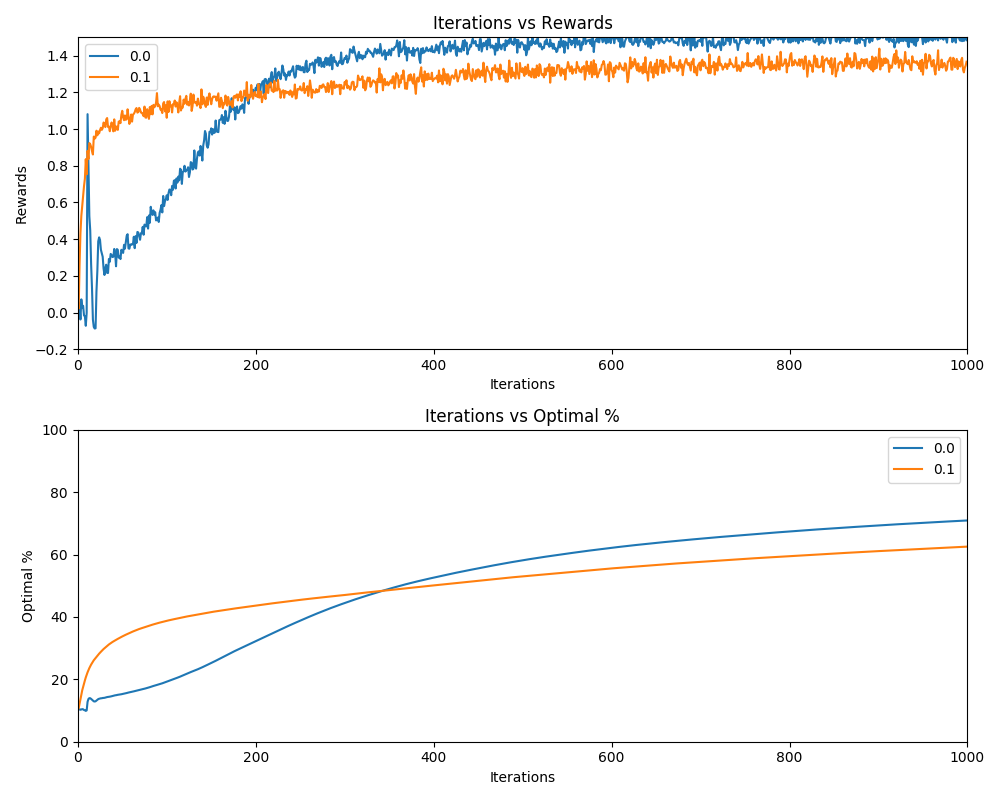
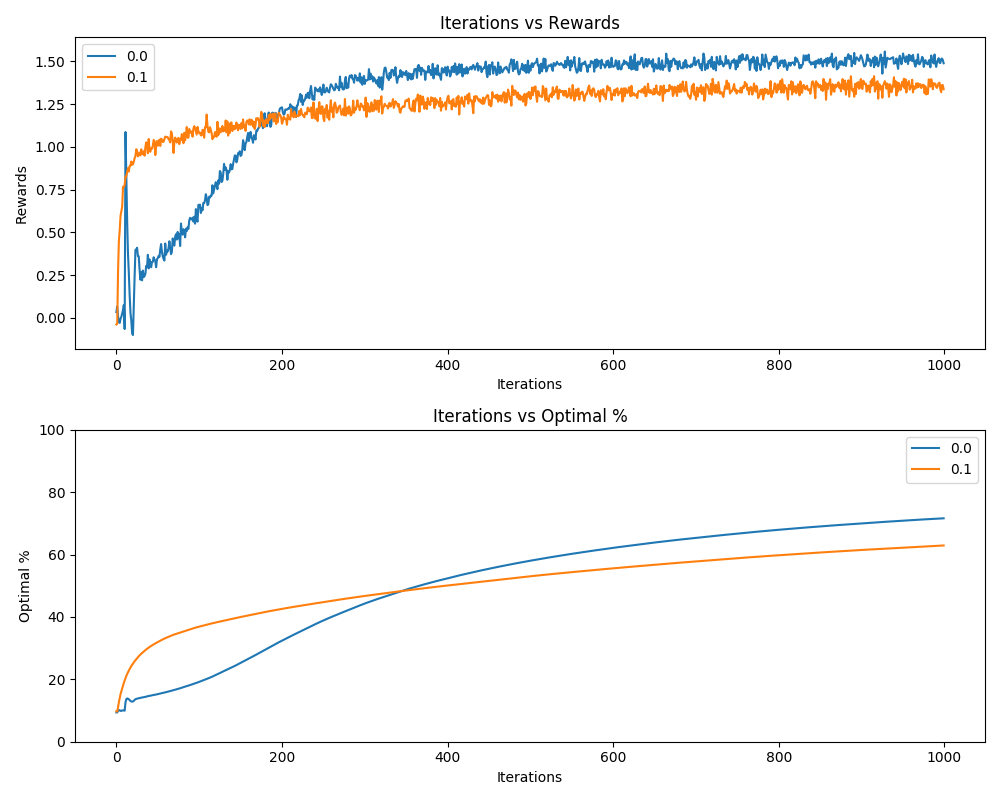
Bandits now takes in a configuration file that allows each agent to be configured to an exact specification.
Nonstationary settings include the mean and variance for how much
the arms with change at each time step.

Optimistic sets how optimistic the initial greedy agent will start at.

diff --git a/rl/book/chapter_2/main.py b/rl/book/chapter_2/main.py
@@ -9,11 +9,12 @@ import os
 import signal
 import sys
 from collections import defaultdict
-from typing import List
+from typing import List, Dict
 
 import gym
 import matplotlib.pyplot as plt
 import numpy
+import yaml
 from tqdm import tqdm
 
 from rl.agents import AgentBuilder
@@ -21,15 +22,27 @@ from rl.agents.reprs import Value
 from rl.utils.logging_utils import Logger
 
 
+def get_builder(agent_config, num_arms, optimistic: float):
+    if optimistic > 0:
+        state_values = defaultdict(Value)
+        for i in range(num_arms):
+            state_values[(i,)] = Value(count=0, value=optimistic)
+        agent_config["kwargs"]["state_values"] = state_values
+
+    builder = AgentBuilder(agent_config["policy"], agent_config["learning"])
+    builder.set(**agent_config["kwargs"])
+    return builder
+
+
 def transition_model(state, action):
     return numpy.array([1]), [numpy.array([action])]
 
 
-def available_actions():
-    return numpy.arange(10)
+def available_actions(num_arms):
+    return numpy.arange(num_arms)
 
 
-def play(agent, env_name, num_iterations, nonstationary):
+def play(agent, env_name, arms, num_iterations, nonstationary):
     # Create a window to render into
     env = gym.make(env_name)
     obs = env.reset()
@@ -40,12 +53,14 @@ def play(agent, env_name, num_iterations, nonstationary):
     optimal_count = 0
     for ep in range(num_iterations):
         if nonstationary:
-            adjustments = numpy.random.normal(0, 0.1, 10)
-            for i in range(10):
+            mu = nonstationary["mu"]
+            sigma = nonstationary["sigma"]
+            adjustments = numpy.random.normal(mu, sigma, arms)
+            for i in range(arms):
                 env.r_dist[i][0] += adjustments[i]
 
         optimal_action = env.r_dist.index(max(env.r_dist))
-        action = agent.act(state, available_actions())
+        action = agent.act(state, available_actions(arms))
 
         obs, reward, done, info = env.step(action)
         state = numpy.array([action])
@@ -54,8 +69,7 @@ def play(agent, env_name, num_iterations, nonstationary):
         optimal_percentages[ep] = optimal_count / (ep + 1)
         rewards[ep] = reward
         agent.learn(state=state, action=action, reward=reward)
-    # print(f"action: {action} reward: {reward}")
-    # time.sleep(0.1)
+
     return rewards, optimal_percentages
 
 
@@ -63,15 +77,18 @@ def keyboard_interrupt_handler(signal, frame):
     sys.exit(0)
 
 
-def plot(data: numpy.ndarray, exploratory_rates, image_name: str, num_iterations: int):
+def plot(data: numpy.ndarray, agent_config, image_name: str, num_iterations: int):
     fig, (rewards_plot, percentage_plot) = plt.subplots(2, 1, figsize=(10, 8))
 
     iterations = numpy.arange(num_iterations)
-    for d, e in zip(data, exploratory_rates):
+    for d, agent in zip(data, agent_config):
         rewards = d[0]
-        rewards_plot.plot(iterations, rewards, label=str(e))
+        exploratory_rate = agent["kwargs"]["exploratory_rate"]
+        learning_rate = agent["kwargs"].get("learning_rate", "null")
+        label = f"{agent['policy']}{agent['learning']} e: {exploratory_rate} alpha: {learning_rate}"
+        rewards_plot.plot(iterations, rewards, label=label)
         optimal_percentages = d[1] * 100
-        percentage_plot.plot(iterations, optimal_percentages, label=str(e))
+        percentage_plot.plot(iterations, optimal_percentages, label=label)
 
     rewards_plot.set(xlabel='Iterations', ylabel='Rewards',
                      title='Iterations vs Rewards')
@@ -88,44 +105,49 @@ def plot(data: numpy.ndarray, exploratory_rates, image_name: str, num_iterations
 
 
 def run_experiment(args):
-    builder = args[0]
-    num_episodes = args[1]
-    num_iterations = args[2]
-    env_name = args[3]
-    nonstationary = args[4]
+    agent_config = args[0]
+    arms = args[1]
+    num_episodes = args[2]
+    num_iterations = args[3]
+    env_name = args[4]
+    nonstationary = args[5]
 
-    agent = builder.make()
+    builder = get_builder(agent_config, arms, agent_config.get("optimistic", 0))
+
     rewards = numpy.zeros(num_iterations)
     percentages = numpy.zeros(num_iterations)
-    for ep_num in tqdm(range(num_episodes), total=num_episodes, desc=f"agent: {agent.exploratory_rate}"):
+    exploratory_rate = agent_config["kwargs"]["exploratory_rate"]
+    learning_rate = agent_config["kwargs"].get("learning_rate", "null")
+    label = f"{agent_config['policy']}{agent_config['learning']} e: {exploratory_rate} alpha: {learning_rate}"
+    for ep_num in tqdm(range(num_episodes), total=num_episodes, desc=label):
+        agent = builder.make()
         agent.transition_model = transition_model
-        new_rewards, optimal_percentages = play(agent, env_name, num_iterations=num_iterations,
+        new_rewards, optimal_percentages = play(agent, env_name, arms, num_iterations=num_iterations,
                                                 nonstationary=nonstationary)
         rewards += 1 / (ep_num + 1) * (new_rewards - rewards)
         percentages += 1 / (ep_num + 1) * (optimal_percentages - percentages)
-        agent = builder.make()
 
     return rewards, percentages
 
 
-def simulate(builders: List[AgentBuilder], env_name: str, num_episodes: int, num_iterations: int, nonstationary: bool):
+def simulate(agents: List[Dict], arms: int, env_name: str, num_episodes: int, num_iterations: int, nonstationary: Dict):
     """
     :param num_episodes:  The number of games to play each other
     """
     processes = multiprocessing.cpu_count()
+    print(f"Simulating bandits! Number of episodes per agent: {num_episodes} Number of agents: {len(agents)}")
+    print(f"Env: {env_name} arms: {arms}")
 
-    print(f"Simulating bandits! Number of episodes per agent: {num_episodes} Number of agents: {len(builders)}")
+    if len(agents) < processes:
+        processes = len(agents)
 
-    if len(builders) < processes:
-        processes = len(builders)
-
-    chunksize = math.floor(len(builders) / processes)
+    chunksize = math.floor(len(agents) / processes)
 
     with multiprocessing.Pool(processes=processes) as pool:
-        experiment_inputs = ((builder, num_episodes, num_iterations, env_name, nonstationary) for builder in builders)
+        experiment_inputs = ((agent_config, arms, num_episodes, num_iterations, env_name, nonstationary) for
+                             agent_config in agents)
 
         os.system('clear')
-        print("Playing games...")
         total_rewards_percentages = numpy.array(
             pool.map(run_experiment, iterable=experiment_inputs, chunksize=chunksize))
 
@@ -136,67 +158,49 @@ def main():
     signal.signal(signal.SIGINT, keyboard_interrupt_handler)
 
     parser = argparse.ArgumentParser()
+    parser.add_argument("config-file", help="Configuration file to run this program.",
+                        type=str)
     parser.add_argument("-ne", "--num-episodes", help="The number of bandit simulations to run",
                         type=int,
-                        default=2000)
+                        default=False)
     parser.add_argument("-ni", "--num-iterations", help="The number of iterations per bandit simulation",
                         type=int,
-                        default=1000)
-    parser.add_argument("-a", "--agent", help="The type of agent to use", choices=["EGSA", "EGWA", "DEGSA", "DEGWA"],
-                        type=str,
-                        default="EGSA")
-    parser.add_argument("-l", "--learning-rate", help="The learning rate for weighted averaging learning.",
-                        type=float,
-                        default=0.1)
-    parser.add_argument("-e", "--exploratory-rate", help="The probability of exploring rather than exploiting.",
-                        type=float,
-                        default=0.1)
-    parser.add_argument("-ns", "--nonstationary", help="Stationary bandits.",
-                        action="store_true",
-                        default=False)
-    parser.add_argument("-op", "--optimistic", help="Make the exploratory rate=0.0 agent start with optimistic values",
-                        action="store_true",
                         default=False)
     parser.add_argument("-o", "--out-image", help="The name of the plot to be output.",
                         type=str,
-                        default="ArmedBandits")
+                        default=False)
     parser.add_argument("-env", "--env-name", help="rlgym environment to load",
                         type=str,
-                        default='BanditTenArmedGaussian-v0')
+                        default=False)
 
     logger: Logger = Logger(parser=parser)
     options = parser.parse_args()
+    with open(sys.argv[1], 'r') as f:
+        configuration = yaml.load(f, Loader=yaml.FullLoader)
 
-    agent_types = {
-        "EGSA": ("EGreedy", "SampleAveraging"),
-        "EGWA": ("EGreedy", "WeightedAveraging"),
-    }
+    if options.num_episodes:
+        configuration["num_episodes"] = options.num_episodes
 
-    constructor_kwargs = {}
-    if options.agent == "EGWA" or options.agent == "DEGWA":
-        constructor_kwargs["learning_rate"] = options.learning_rate
+    if options.num_iterations:
+        configuration["num_iterations"] = options.num_iterations
 
-    exploratory_rates = [0.0, 0.1]
+    if options.out_image:
+        configuration["out_image"] = options.out_image
 
-    builders = []
-    for e in exploratory_rates:
-        if options.optimistic and e == 0.0:
-            state_values = defaultdict(Value)
-            for i in range(10):
-                state_values[(i,)] = Value(count=0, value=5)
-            constructor_kwargs["state_values"] = state_values
+    if options.env_name:
+        configuration["env_name"] = options.env_name
 
-        constructor_kwargs["exploratory_rate"] = e
-        builder = AgentBuilder(*agent_types[options.agent])
-        builder.set(**constructor_kwargs)
-        if options.optimistic and e == 0.0:
-            del constructor_kwargs["state_values"]
-        builders.append(builder)
+    total_rewards_percentages = simulate(configuration["agents"],
+                                         configuration["arms"],
+                                         configuration["env_name"],
+                                         configuration["num_episodes"],
+                                         configuration["num_iterations"],
+                                         configuration.get("nonstationary", {}))
 
-    total_rewards_percentages = simulate(builders, options.env_name, options.num_episodes, options.num_iterations,
-                                         options.nonstationary)
-    plot(total_rewards_percentages, exploratory_rates=exploratory_rates, image_name=options.out_image,
-         num_iterations=options.num_iterations)
+    plot(total_rewards_percentages,
+         agent_config=configuration["agents"],
+         image_name=configuration["out_image"],
+         num_iterations=configuration["num_iterations"])
 
     print("done!")
 
